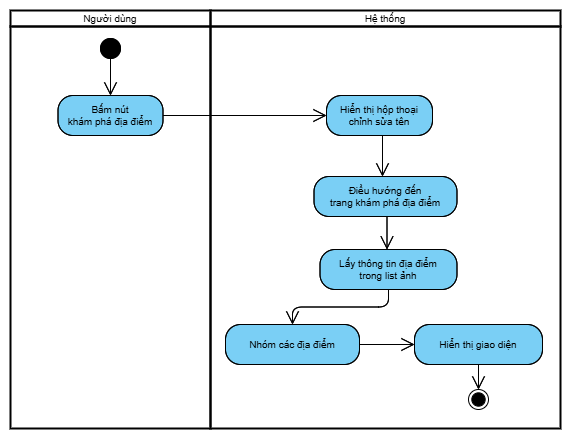
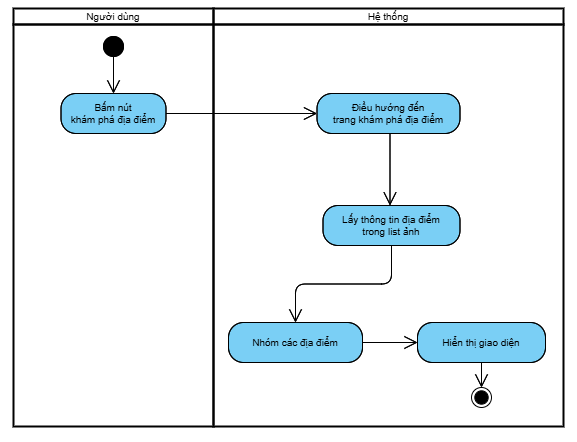
feat(3-3-14): all diagram + fix 3-3-13

Changed region(s): [[0.0, 0.0, 1.0, 0.9706]]

diff --git a/chapters/c3/usecases/3.3.14_usecase.tex b/chapters/c3/usecases/3.3.14_usecase.tex
@@ -1,1 +1,48 @@
 \subsection{Ca sử dụng xem ảnh theo địa điểm}
+
+\vspace{0.5cm}
+
+\noindent 
+\begin{tabularx}{\linewidth}{| l | X |} 
+\hline 
+\textbf{Mô tả} & Người dùng xem danh sách ảnh được chụp tại 1 địa điểm. \\
+\hline 
+\textbf{Luồng cơ bản} & 1. Người dùng bấm vào nhóm địa điểm muốn xem danh sách ảnh chụp tại nơi đó. \newline
+                       2. Hệ thống điều hướng đến trang danh sách ảnh của địa điểm. \newline
+                       3. Hệ thống lấy thông tin danh sách ảnh chụp tại địa điểm và nhóm theo ngày. \newline
+                       4. Hệ thống hiển thị hộp thoại cấp quyền thông tin vị trí hiện tại. \newline
+                       5. Người dùng cấp quyền truy cập vị trí hiện tại. \newline
+                       6. Hệ thống hiển thị danh sách ảnh chụp trên bản đồ. \\
+\hline
+\textbf{Luồng thay thế} & - Người dùng không cấp quyền truy cập vị trí. \newline
+                          - Hệ thống không lấy được dữ liệu ảnh của địa điểm. \\
+\hline
+\textbf{Tiền điều kiện} & - Người dùng đã đăng nhập vào hệ thống. \newline
+                          - Có ít nhất 1 bức ảnh đã được cập nhật vị trí chụp ảnh. \\
+\hline
+\textbf{Hậu điều kiện} & - Người dùng có thể bấm vào ảnh trong danh sách để xem vị trí chi tiết của ảnh trên bản đồ. \\
+\hline 
+\textbf{Yêu cầu phi chức năng} & - Hệ thống lấy dữ liệu ảnh của địa điểm không quá 1s. \newline
+                           - Hệ thống lấy được dữ liệu hiện tại vị trí người dùng (nếu được cấp quyền). \\
+\hline 
+\end{tabularx}
+
+\vspace{0.8cm}
+
+\noindent 
+\begin{tabular}{| c | c |}
+    \hline
+    \textbf{Biểu đồ hoạt động} & \textbf{Quan hệ} \\ 
+    \hline
+    \includegraphics[width=0.6\linewidth]{figures/c3/3-3-14-activity-diagram.png} 
+    &  
+    \includegraphics[width=0.35\linewidth]{figures/c3/3-3-14-relationship.png} \\ 
+    \hline
+\end{tabular}
+
+\begin{figure}[H]
+    \centering  
+    \includegraphics[width=1\textwidth]{figures/c3/3-3-14-sequence-diagram.png}
+    \caption{Biểu đồ tuần tự ca sử dụng xem ảnh theo địa điểm.}
+    \label{fig:3-3-14-sequence-diagram}
+\end{figure}

diff --git a/chapters/c3/usecases/3.3.13_usecase.tex b/chapters/c3/usecases/3.3.13_usecase.tex
@@ -17,7 +17,7 @@
 \hline
 \textbf{Hậu điều kiện} & - Người dùng có thể chọn địa điểm trong danh sách và xem chi tiết những ảnh chụp tại địa điểm đó. \\
 \hline 
-\textbf{Yêu cầu phi chức năng} & -Hệ thống lấy và nhóm dữ liệu các địa điểm không quá 2s. \\
+\textbf{Yêu cầu phi chức năng} & - Hệ thống lấy và nhóm dữ liệu các địa điểm không quá 2s. \\
 \hline 
 \end{tabularx}
 
